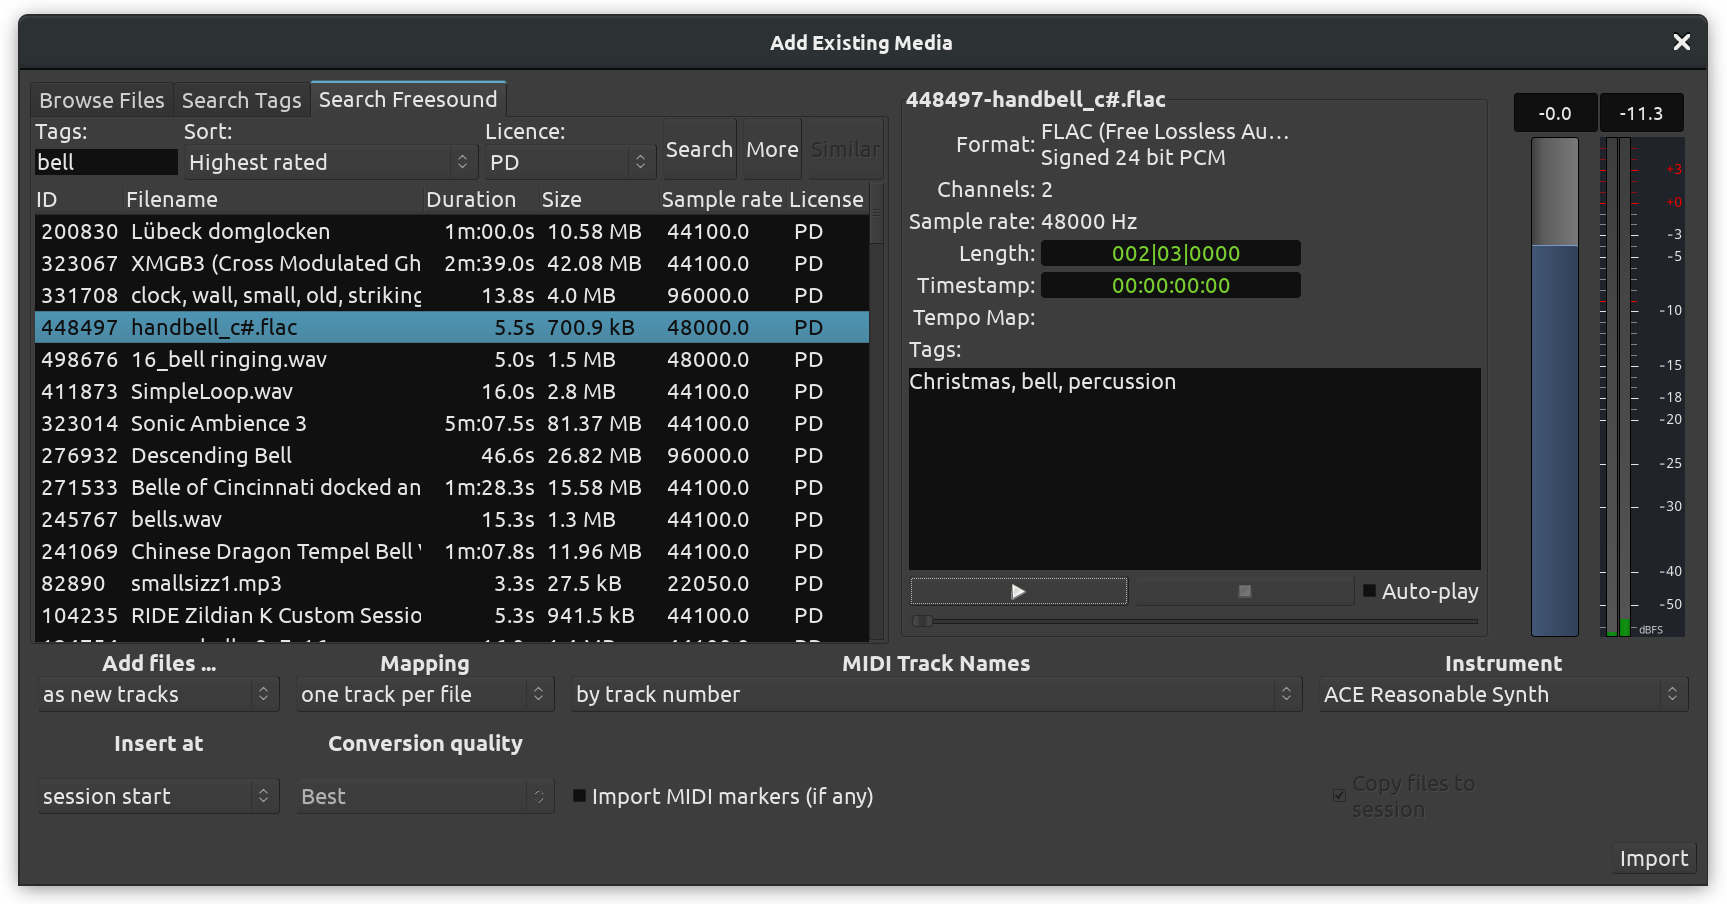
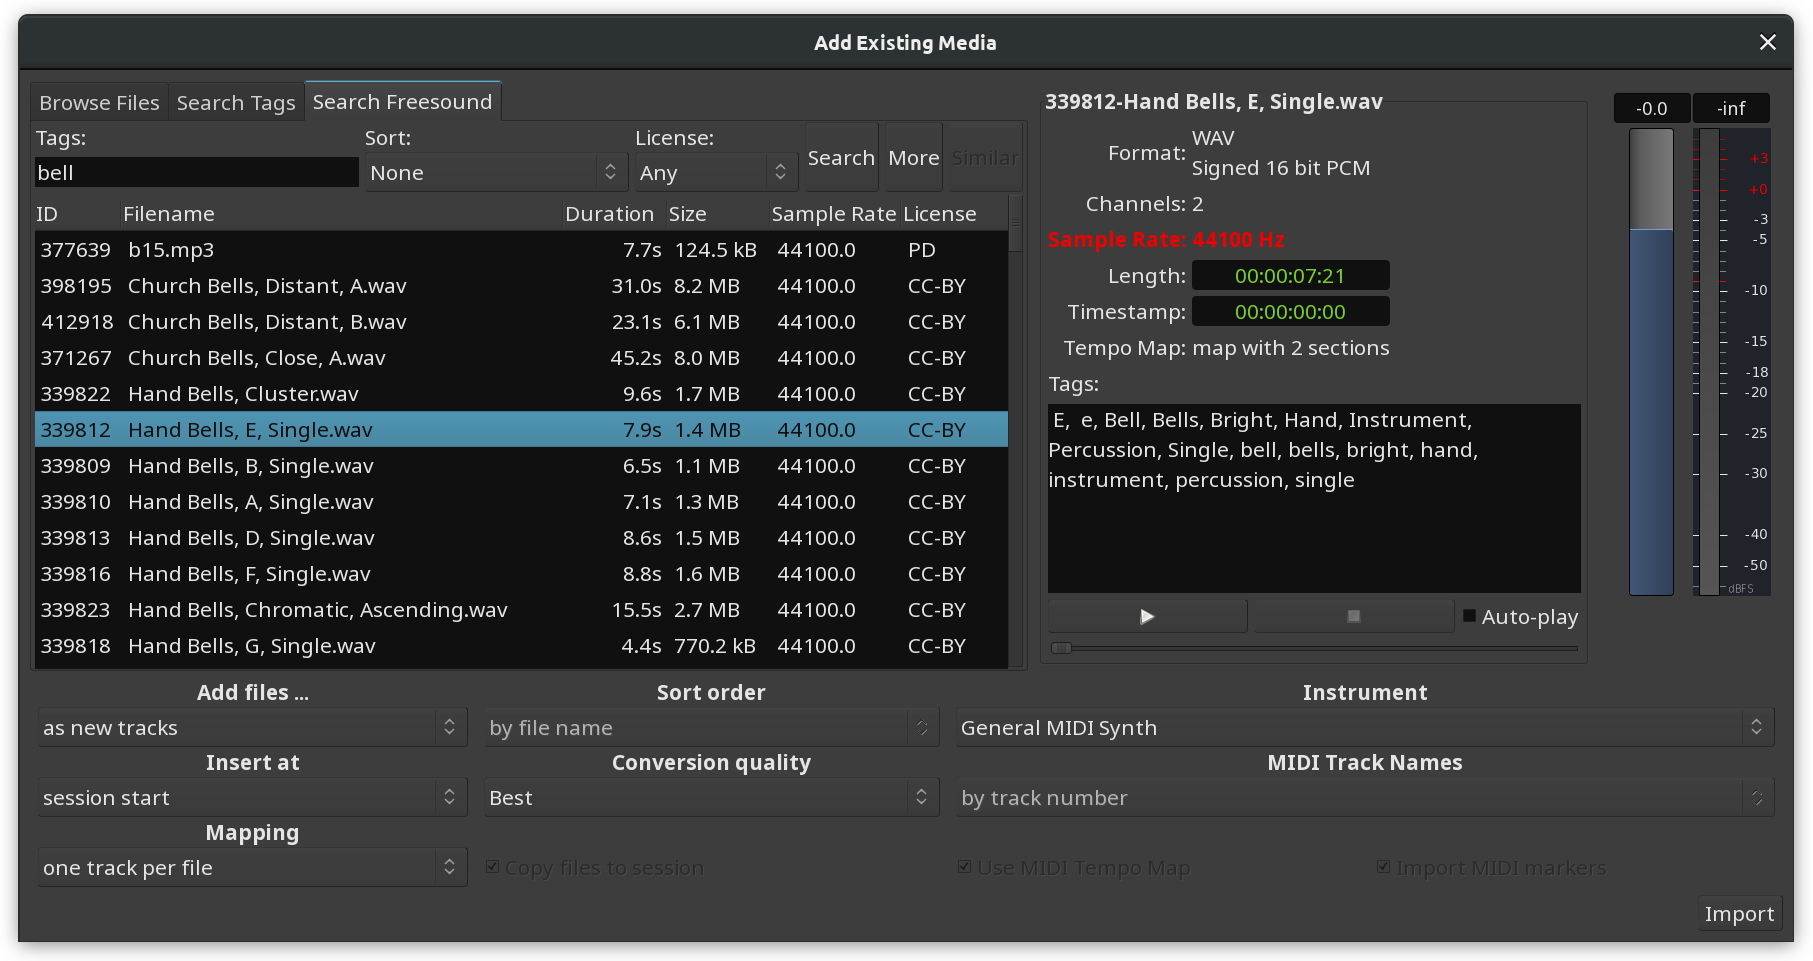
7.2 update: MIDI Lyrics and newer Import Media dialog screenshots

diff --git a/include/import-dialog.html b/include/import-dialog.html
@@ -95,21 +95,46 @@
   naming scheme:
 </p>
 <table class="dl">
-  <tr><th>by track number</th><td>will automatically assign every track a name that consists of the imported file name and a track number</td></tr>
-  <tr><th>by track name</th><td>will</td></tr>
-  <tr><th>by instrument name</th><td>will</a></td></tr>
+  <tr>
+    <th>
+      by track number
+    </th>
+    <td>
+      will automatically assign every track a name that consists of the
+      imported file name and a track number
+    </td>
+  </tr>
+  <tr>
+    <th>
+      by track name
+    </th>
+   <td>
+      will automatically assign every track a name that consists of the
+      imported track's name and number
+    </td>
+  </tr>
+  <tr>
+    <th>
+      by instrument name
+    </th>
+    <td>
+      will automatically assign every track a name that consists of the
+      imported instrument's name and a track number
+    </td>
+  </tr>
 </table>
 <p>
 <p>
   You can also optionally import a tempo map from a MIDI file.
-  The <kbd class="menu">Use MIDI Tempo Map (if defined)</kbd> option appears
-  when a MIDI file is selected in the file selection dialog.
+  The <kbd class="menu">Use MIDI Tempo Map</kbd> option appears when a MIDI
+  file is selected in the file selection dialog.
 <p>
 <p>
-  The last MIDI-specific option is <kbd class="menu">Import MIDI Markers
-  (if any)</kbd>. If those are present in a MIDI file, they will be rendered
-  right above MIDI clips on the canvas. Editing the MIDI markers is currently
-  unavailable.
+  The last MIDI-specific option is <kbd class="menu">Import MIDI Markers</kbd>.
+  If those are present in a MIDI file, they will be rendered right above MIDI
+  clips on the canvas. Editing the MIDI markers is currently unavailable.
+  If MIDI lyrics is available in the file, it was also be imported as region
+  markers (that can be later promoted to location markers).
 </p>
 <figure class="right">
 	<img src="/images/imported-midi-markers.png" alt="MIDI markers imported from a .mid file" width="75%">
